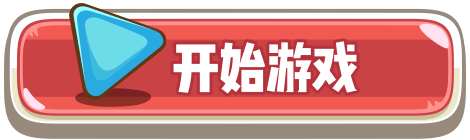
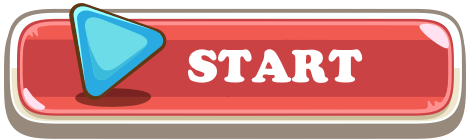
partial translation of tower stack

Changed region(s): [[0.3574, 0.2571, 0.7745, 0.6857]]

diff --git a/gfiles/html5games/towermaster/index.html b/gfiles/html5games/towermaster/index.html
@@ -373,7 +373,7 @@
                         <div class="percent"></div>
                     </div>
                 </div>
-                <div class="text">加载中</div>
+                <div class="text">Loading</div>
             </div>
         </div>
 
@@ -401,12 +401,10 @@
                                 class="over-img">
                             <div id="score" class="over-score font-wenxue"></div>
                             <div id="over-zero" class="hide">
-                                <div class="tip"><p>再来一次吧！</p>
+                                <div class="tip"><p>Go again!</p>
                                     <img
                                             src="./assets/main-modal-again-b.png"
-                                            class="over-button-b js-reload"><img
-                                            src="./assets/main-modal-invite-b.png"
-                                            class="over-button-b js-invite"></div>
+                                            class="over-button-b js-reload">
                             </div>
                         </div>
                     </div>
@@ -450,7 +448,7 @@
     var failed = status.failed
     if (failed > 0 && !loadError) {
       loadError = true
-      alert('加载失败 请刷新后重试')
+      alert('Loading failed, please refresh and try again.')
       return
     }
     var percent = parseInt((success / total) * 100);
